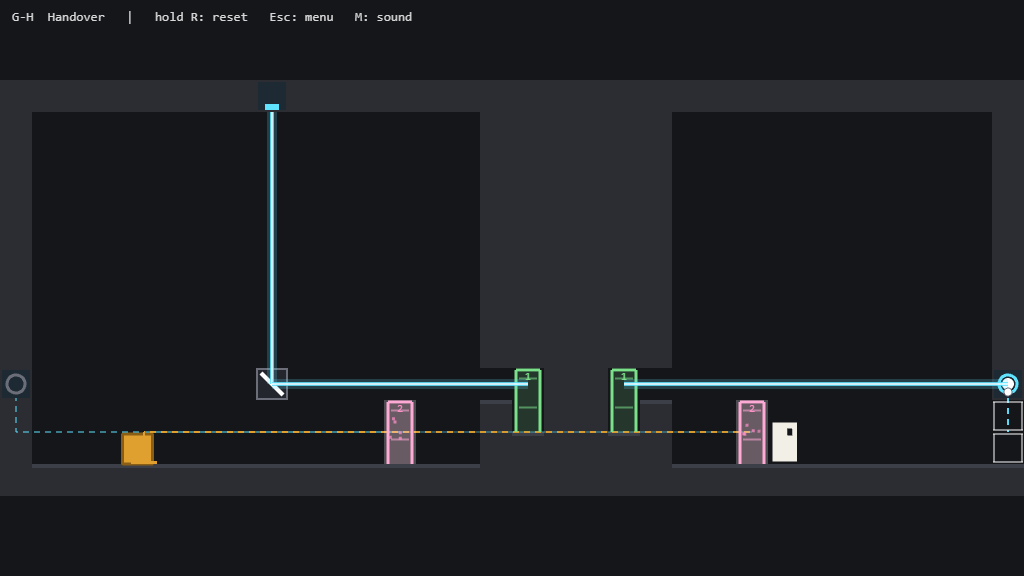
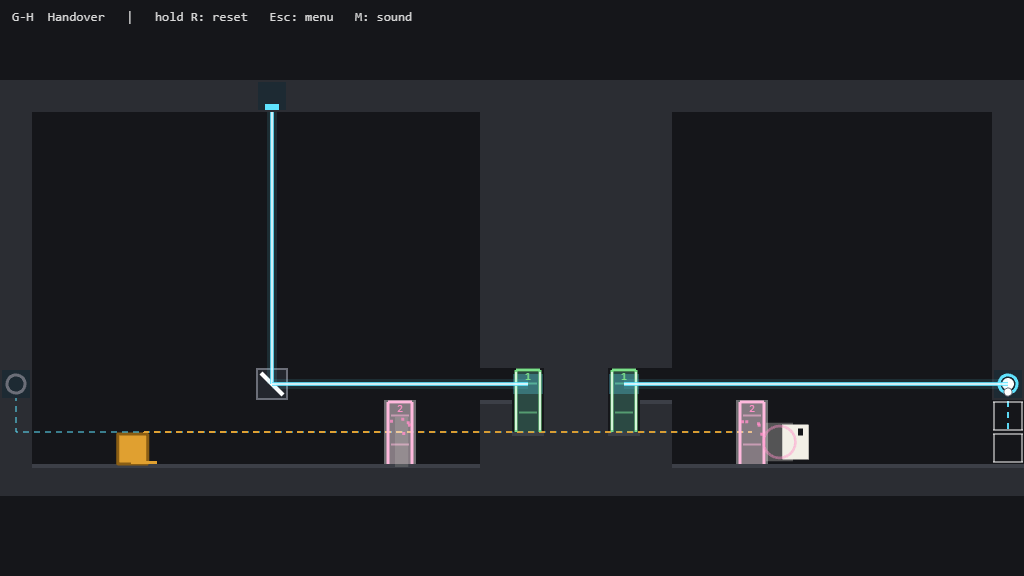
Gates polish: pass afterimages, ring and stretch; light glow; refused pass
- A gate pass leaves an afterimage at both ends and a ring in the pair's
  colour; the player stretches in the direction of travel (C52, C58).
- Gates carrying a beam glow cyan at both ends (tracer reports gate cells).
- Walking into a gate whose far side is blocked (G5) now says no: refuse
  sound, a small shake and a red outline on the blocked spot.
- New sound levels measured offline against the existing ones.
- Verified in G-E (pass, refused pass, other side) and G-H (glow, solve);
  screenshot refreshed; docs updated.

diff --git a/src/game/scenes/ChamberScene.ts b/src/game/scenes/ChamberScene.ts
@@ -39,7 +39,7 @@ import { Crate } from '../player/Crate';
 import { Player } from '../player/Player';
 import { ChamberView } from '../render/ChamberView';
 import { centredBounds } from '../render/camera';
-import { dust, sparks } from '../render/fx';
+import { afterimage, dust, ring, sparks } from '../render/fx';
 import { cssHex, gateColor, PALETTE } from '../render/palette';
 
 const RESET_HOLD_MS = 1000; // hold R this long to reset (C51)
@@ -88,7 +88,7 @@ export class ChamberScene extends Phaser.Scene {
   private enemies: PatrolEnemy[] = [];
   private cellBodies: { r: number; c: number; body: Phaser.Physics.Arcade.StaticBody }[] = [];
   private pressed: ReadonlySet<string> = new Set();
-  private beams: BeamTrace = { segments: [], lit: new Set(), cells: new Set() };
+  private beams: BeamTrace = { segments: [], lit: new Set(), cells: new Set(), gateCells: new Set() };
   private gates!: GateMap;
   /** Each body's centre x on the previous physics step, to see it cross a gate's centre line (C106). */
   private prevCentre = new Map<Phaser.Physics.Arcade.Body, number>();
@@ -139,7 +139,7 @@ export class ChamberScene extends Phaser.Scene {
     this.enemies = [];
     this.cellBodies = [];
     this.pressed = new Set();
-    this.beams = { segments: [], lit: new Set(), cells: new Set() };
+    this.beams = { segments: [], lit: new Set(), cells: new Set(), gateCells: new Set() };
     this.resetHeldMs = 0;
     this.solved = false;
     this.defeated = false;
@@ -718,35 +718,52 @@ export class ChamberScene extends Phaser.Scene {
     }
     const isSolid = (r: number, c: number) => this.logic.isSolid(r, c) || crateCells.has(key(r, c));
     const isOn = (id: string) => this.logic.isGateOn(id);
-    const bodies: Phaser.Physics.Arcade.Body[] = [this.player.body];
+    // Each body with the colour of its afterimage.
+    const bodies: { body: Phaser.Physics.Arcade.Body; color: number }[] = [{ body: this.player.body, color: PALETTE.player }];
     for (const c of this.crates) {
-      if (!c.carried && !c.flying && c.body.enable) bodies.push(c.body);
+      if (!c.carried && !c.flying && c.body.enable) bodies.push({ body: c.body, color: PALETTE.weight });
       else this.prevCentre.delete(c.body); // carried or flying: its old spot means nothing on landing
     }
     for (const w of this.enemies) {
-      if (w.alive) bodies.push(w.body);
+      if (w.alive) bodies.push({ body: w.body, color: PALETTE.enemy });
       else this.prevCentre.delete(w.body);
     }
-    for (const body of bodies) {
+    for (const { body, color } of bodies) {
       const cx = body.x + body.width / 2;
       const last = this.prevCentre.get(body);
       // A jump of more than half a tile in one step is a placement (put down, respawn, reset),
       // never a walk across a gate's centre line.
       const prev = last === undefined || Math.abs(cx - last) > TILE / 2 ? cx : last;
       const pass = passThrough(this.gates.pairs, { left: body.x, top: body.y, width: body.width, height: body.height }, prev, TILE, isOn, isSolid);
-      if (!pass) {
+      if (!pass || pass.blocked) {
         this.prevCentre.set(body, cx);
+        // The player walked into a gate whose far side is blocked (G5): say no, as the game does
+        // everywhere else (C52), and mark what blocks it. Other bodies just pass the empty frame.
+        if (pass?.blocked && body === this.player.body) {
+          Sfx.refuse();
+          this.cameras.main.shake(60, 0.002);
+          this.view.flashCells(pass.to.map(([r, c]) => [r, c + pass.dir] as const), 0xff6b6b);
+        }
         continue;
       }
       const { x: vx, y: vy } = body.velocity;
+      const from = { x: body.x + body.width / 2, y: body.y + body.height / 2 };
       body.reset(pass.left + body.width / 2, pass.top + body.height / 2);
       body.velocity.set(vx, vy);
       this.prevCentre.set(body, pass.left + body.width / 2);
+      // Juice (C52, C58): an afterimage shrinking into the gate it entered, one popping out of the
+      // twin, a ring in the pair's colour, sparks at both gates, a flash, the pass sound and, for
+      // the player, a stretch in the direction of travel.
+      const pairColor = gateColor(pass.pair);
+      afterimage(this, from.x, from.y, body.width, body.height, color, 'from');
+      afterimage(this, pass.left + body.width / 2, pass.top + body.height / 2, body.width, body.height, color, 'to');
+      ring(this, pass.left + body.width / 2, pass.top + body.height / 2, pairColor);
+      if (body === this.player.body) this.player.popOut();
       Sfx.gate();
       this.view.flash(pass.pair);
       for (const gate of [pass.from, pass.to]) {
         const [r, c] = gate[0]!;
-        sparks(this, (c + 0.5) * TILE, (r + 1) * TILE, gateColor(pass.pair), 5);
+        sparks(this, (c + 0.5) * TILE, (r + 1) * TILE, pairColor, 5);
       }
     }
   }

diff --git a/src/game/render/ChamberView.ts b/src/game/render/ChamberView.ts
@@ -27,6 +27,8 @@ export class ChamberView {
   private readonly dynamic: Phaser.GameObjects.Graphics;
   /** Device id -> time (ms) its hit flash started. */
   private readonly flashes = new Map<string, number>();
+  /** Cells flashed in a colour (a refused gate pass marks what blocks it). */
+  private cellFlashes: { cells: readonly (readonly [number, number])[]; color: number; t0: number }[] = [];
 
   constructor(
     private readonly scene: Phaser.Scene,
@@ -72,6 +74,11 @@ export class ChamberView {
     this.flashes.set(deviceId, this.scene.time.now);
   }
 
+  /** Briefly tint some cells (what blocks a gate's exit, C106). */
+  flashCells(cells: readonly (readonly [number, number])[], color: number): void {
+    this.cellFlashes.push({ cells, color, t0: this.scene.time.now });
+  }
+
   /** A small burst (a recalled crate vanishing, a Bolt hitting a wall). */
   puff(x: number, y: number, color: number = PALETTE.weight): void {
     for (let i = 0; i < 8; i++) {
@@ -99,6 +106,13 @@ export class ChamberView {
       }
       g.fillStyle(PALETTE.lightCore, 0.7 * (1 - t));
       for (const [r, c] of d.cells) g.fillRect(c * TILE, r * TILE, TILE, TILE);
+    }
+    const CELL_MS = 320;
+    this.cellFlashes = this.cellFlashes.filter((f) => this.scene.time.now - f.t0 < CELL_MS);
+    for (const f of this.cellFlashes) {
+      const t = (this.scene.time.now - f.t0) / CELL_MS;
+      g.lineStyle(3, f.color, 0.9 * (1 - t));
+      for (const [r, c] of f.cells) g.strokeRect(c * TILE + 3, r * TILE + 3, TILE - 6, TILE - 6);
     }
   }
 
@@ -236,8 +250,20 @@ export class ChamberView {
               g.lineStyle(2, color, 0.55).lineBetween(x + 7, sy, x + TILE - 7, sy);
             }
           }
+          // Light passing through (C106): the whole frame washes cyan, brightest on the beam's row,
+          // and its posts turn cyan, at both gates of the pair.
+          const lightRows = gate.filter(([r]) => beams?.gateCells.has(`${r},${c}`)).map(([r]) => r);
+          if (lightRows.length > 0) {
+            const pulse = 0.75 + 0.25 * Math.sin(this.scene.time.now / 90);
+            g.fillStyle(PALETTE.light, 0.22 * pulse).fillRect(x + 5, y + 4, TILE - 10, h - 4);
+            for (const r of lightRows) g.fillStyle(PALETTE.light, 0.55 * pulse).fillRect(x + 1, r * TILE + 6, TILE - 2, TILE - 12);
+          }
           g.lineStyle(3, color, on ? 1 : 0.35);
           g.lineBetween(x + 4, y + h, x + 4, y + 2).lineBetween(x + 4, y + 2, x + TILE - 4, y + 2).lineBetween(x + TILE - 4, y + 2, x + TILE - 4, y + h);
+          if (lightRows.length > 0) {
+            g.lineStyle(1.5, PALETTE.lightCore, 0.9);
+            g.lineBetween(x + 4, y + h - 2, x + 4, y + 4).lineBetween(x + TILE - 4, y + 4, x + TILE - 4, y + h - 2);
+          }
         }
         break;
       }

diff --git a/tests/core/gates.test.ts b/tests/core/gates.test.ts
@@ -107,6 +107,7 @@ describe('beams through gates', () => {
   it('a sideways beam leaves the twin the same way and lights what is beyond', () => {
     const t = trace(LIGHT);
     expect(t.lit.has('receiver@1,13')).toBe(true);
+    expect([...t.gateCells].sort()).toEqual(['1,10', '1,3']);
     expect(t.segments.map((s) => [s.from, s.to])).toEqual([
       [[1, 1], [1, 3]],
       [[1, 10], [1, 13]],
@@ -123,6 +124,7 @@ describe('beams through gates', () => {
   it('vertical beams pass gates as air', () => {
     const t = trace(['#######', '#.v...#', 'D.1.1.E', 'S.1.1.E', '#.o####', '#######']);
     expect(t.lit.has('receiver@4,2')).toBe(true);
+    expect(t.gateCells.size).toBe(0);
   });
 
   it('a blocker beside the twin stops the beam there', () => {
@@ -144,7 +146,7 @@ describe('bodies through gates', () => {
   it('crossing the centre line moving right comes out beside the twin, on its right, at the same height', () => {
     const line = 3 * T + 16;
     const pass = passThrough(pairs, body(line + 2), line - 2, T, () => true, solid)!;
-    expect(pass).toMatchObject({ pair: '1', dir: 1, from: [[2, 3], [3, 3]], to: [[2, 10], [3, 10]] });
+    expect(pass).toMatchObject({ pair: '1', dir: 1, blocked: false, from: [[2, 3], [3, 3]], to: [[2, 10], [3, 10]] });
     expect(pass.left).toBeCloseTo(11 * T + 0.5);
     expect(pass.top).toBe(4 * T - 44);
   });
@@ -163,11 +165,13 @@ describe('bodies through gates', () => {
     expect(passThrough(pairs, { ...body(line + 2), top: 0 }, line - 2, T, () => true, solid)).toBeUndefined();
   });
 
-  it('a gate whose twin is blocked on the exit side carries nobody', () => {
+  it('a gate whose twin is blocked on the exit side carries nobody, and says so', () => {
     const blocked = parse(['###############', '#.....#.......#', 'D..1..#...1#..E', 'DS.1.a#...1...E', '###############']);
     const l = new ChamberLogic(blocked);
     const line = 3 * T + 16;
-    expect(passThrough(new GateMap(blocked).pairs, body(line + 2), line - 2, T, () => true, (r, c) => l.isSolid(r, c))).toBeUndefined();
+    const b = body(line + 2);
+    const pass = passThrough(new GateMap(blocked).pairs, b, line - 2, T, () => true, (r, c) => l.isSolid(r, c))!;
+    expect(pass).toMatchObject({ blocked: true, dir: 1, left: b.left, top: b.top });
   });
 });
 

diff --git a/src/core/gates/gates.ts b/src/core/gates/gates.ts
@@ -62,7 +62,12 @@ export interface GatePass {
   from: readonly Cell[];
   to: readonly Cell[];
   dir: 1 | -1;
-  /** The body's new top-left corner. */
+  /**
+   * The twin's exit side was blocked (G5): the body stays where it is and the gate acts as an
+   * empty frame. The game uses this to say "no" (C52).
+   */
+  blocked: boolean;
+  /** The body's new top-left corner (unchanged when blocked). */
   left: number;
   top: number;
 }
@@ -75,7 +80,8 @@ export function exitClear(gate: readonly Cell[], dir: 1 | -1, isSolid: (r: numbe
 /**
  * One step of a body through the gates. `prevCentreX` is the body's centre on the previous step.
  * Returns where the body comes out if its centre crossed the centre line of a gate that is on,
- * while its vertical centre was within the gate's rows and the twin's exit side is clear.
+ * while its vertical centre was within the gate's rows. If the twin's exit side is blocked, the
+ * result says so (`blocked`) and keeps the body where it is.
  */
 export function passThrough(
   pairs: readonly Device[],
@@ -98,10 +104,10 @@ export function passThrough(
       const crossed = dir === 1 ? prevCentreX < line && cx >= line : prevCentreX > line && cx <= line;
       if (!crossed || cy < top * tile || cy >= (top + from.length) * tile) continue;
       const to = pair.gates![1 - g]!;
-      if (!exitClear(to, dir, isSolid)) continue;
+      if (!exitClear(to, dir, isSolid)) return { pair: pair.id, from, to, dir, blocked: true, left: body.left, top: body.top };
       const [toTop, toCol] = to[0]!;
       const left = dir === 1 ? (toCol + 1) * tile + 0.5 : toCol * tile - body.width - 0.5;
-      return { pair: pair.id, from, to, dir, left, top: body.top + (toTop - top) * tile };
+      return { pair: pair.id, from, to, dir, blocked: false, left, top: body.top + (toTop - top) * tile };
     }
   }
   return undefined;

diff --git a/src/core/light/beams.ts b/src/core/light/beams.ts
@@ -47,6 +47,8 @@ export interface BeamTrace {
   lit: Set<string>;
   /** "r,c" of every cell a beam passes through (for knockback and, on Day 4, enemy damage). */
   cells: Set<string>;
+  /** "r,c" of gate cells a beam enters or leaves sideways (C106), so the frames can glow. */
+  gateCells: Set<string>;
 }
 
 const STEP: Record<Dir, readonly [number, number]> = { up: [-1, 0], down: [1, 0], left: [0, -1], right: [0, 1] };
@@ -68,6 +70,7 @@ export function traceBeams(model: ChamberModel, world: BeamWorld): BeamTrace {
   const segments: BeamSegment[] = [];
   const lit = new Set<string>();
   const cells = new Set<string>();
+  const gateCells = new Set<string>();
 
   for (const emitter of model.devices) {
     if (emitter.kind !== 'emitter' || !emitter.dir) continue;
@@ -114,10 +117,12 @@ export function traceBeams(model: ChamberModel, world: BeamWorld): BeamTrace {
         start ??= [r, c];
         last = [r, c];
         cells.add(key);
+        gateCells.add(key);
         close();
         [r, c] = gates.twinOf(r, c)!;
         start = last = [r, c];
         cells.add(`${r},${c}`);
+        gateCells.add(`${r},${c}`);
         fromEdge = false;
         toEdge = false;
         continue;
@@ -136,7 +141,7 @@ export function traceBeams(model: ChamberModel, world: BeamWorld): BeamTrace {
     }
     close();
   }
-  return { segments, lit, cells };
+  return { segments, lit, cells, gateCells };
 }
 
 /** A segment as a line in world pixels (cell size `tile`), for drawing and for contact tests. */

diff --git a/src/game/render/fx.ts b/src/game/render/fx.ts
@@ -39,3 +39,39 @@ export function sparks(scene: Phaser.Scene, x: number, y: number, color: number,
     });
   }
 }
+
+/**
+ * A fading copy of a body's box: shrinks where something left (`from`), or pops out from a
+ * little larger where it arrived (`to`). Used for gate passes (C106), so a jump across the room
+ * reads as one movement instead of a glitch. A separate shape, so physics bodies are never scaled.
+ */
+export function afterimage(scene: Phaser.Scene, x: number, y: number, w: number, h: number, color: number, kind: 'from' | 'to'): void {
+  const ghost = scene.add.rectangle(x, y, w, h, color, kind === 'from' ? 0.45 : 0.6).setDepth(11);
+  if (kind === 'to') ghost.setScale(1.45, 0.75);
+  scene.tweens.add({
+    targets: ghost,
+    scaleX: kind === 'from' ? 0.4 : 1,
+    scaleY: kind === 'from' ? 1.2 : 1,
+    alpha: 0,
+    duration: kind === 'from' ? 160 : 220,
+    ease: 'Quad.Out',
+    onComplete: () => ghost.destroy(),
+  });
+}
+
+/** An expanding ring (a gate pass arriving). */
+export function ring(scene: Phaser.Scene, x: number, y: number, color: number, radius = 22): void {
+  const g = scene.add.graphics().setDepth(11);
+  const state = { t: 0 };
+  scene.tweens.add({
+    targets: state,
+    t: 1,
+    duration: 260,
+    ease: 'Quad.Out',
+    onUpdate: () => {
+      g.clear();
+      g.lineStyle(3 * (1 - state.t) + 1, color, 0.8 * (1 - state.t)).strokeCircle(x, y, 6 + radius * state.t);
+    },
+    onComplete: () => g.destroy(),
+  });
+}

diff --git a/src/game/player/Player.ts b/src/game/player/Player.ts
@@ -334,6 +334,11 @@ export class Player {
     dust(this.scene, x, feet, 4, 10, TILE / 2 - 2);
   }
 
+  /** Coming out of a gate (C106): a quick stretch in the direction of travel. */
+  popOut(): void {
+    this.squash(1.35, 0.78);
+  }
+
   private squash(sx: number, sy: number): void {
     this.scene.tweens.killTweensOf(this.sprite);
     this.sprite.setScale(sx, sy);

diff --git a/docs/tasks.md b/docs/tasks.md
@@ -122,6 +122,7 @@ How to use this file:
 - [x] G-E, G-M, G-H entered as data and **solved end to end in the real game** (scripted input; G-M's walker delivered about 1 s after `c`); enumerator intended states (report reviewed: G-M's extra openings need `x` pressed, which needs gate 1, which needs the walker on `a`; G-H's need Ma `\`, and the room is reachable then only with the crate on `p`), routes and the up-swing to Ma as regression tests; screenshot `docs/screenshots/day7-G-H-beam-through-gate-crate-holds-gate-2.png`
 - [x] Progression: seals W-H 1, L-H 2, G-H 3, Eclipse 4 (still final), Eclipse needs G-H, 4 × 3 chamber select, four seals in the menu and the run summary, generator and progression tests (five winning runs cover all twelve)
 - [x] Docs: GDD (four mechanics, still about 3¼ A4 pages, checked by printing), README, ASSETS, implementation plan, devlog, decision log, enumerator report
+- [x] Gates polish to the polish-pass bar: pass afterimages + ring + player stretch; gates glow while carrying light; refused pass (far side blocked) answers with the refuse sound, a shake and a red outline; new sound levels measured against the existing ones (offline render). Verified in G-E (pass frame, refused pass, other side still works) and G-H (glow, full solve)
 
 ## Day 7: Polish and delivery
 - [x] Polish pass (feel, SFX, juice): every state change answers (C52): plates click, receivers chime, doors / trapdoors / the exit sound and spark, plate-wired mirrors turn audibly, crates thud with dust; movement (C58): jump and landing sounds, landing dust scaled by the fall; pick-up / put-down / throw sounds and a "refused" sound where the game says no; reward pick chord; **M** mutes (remembered). A quiet ~1/3 s at room start. Found and fixed: a quick pick-up + put-down in place was refused (AI bug #33). Verified in W-E, L-H and W-H by logging every sound by name

diff --git a/docs/devlog.md b/docs/devlog.md
@@ -160,7 +160,12 @@ Testing note (not a product bug): synthetic `KeyboardEvent`s ignore the `keyCode
   - Then came the game layer and data entry; each chamber was then solved end to end in the real game.
   - The three chambers: **First Gate** (fetch a crate through a gate), **Gatekeeper** (open a gate for the walker; it drops onto the plate that holds your gate open), **Handover** (Gates × Light: one beam powers your gate or the exit, so a crate takes over).
 - **Progression:** Eclipse now also needs the Gates Hard; the chamber select is 4 × 3; five winning runs cover all twelve chambers. The GDD still fits about 3¼ A4 pages.
-- Screenshot: [`day7-G-H-beam-through-gate-crate-holds-gate-2.png`](screenshots/day7-G-H-beam-through-gate-crate-holds-gate-2.png).
+- **Gates polish, to the bar of the Day 7 polish pass (C52, C58):**
+  - A pass leaves an afterimage shrinking into the gate it entered and another popping out of the twin, plus a ring in the pair's colour. The player stretches in the direction of travel, so a jump across the room reads as one movement.
+  - A gate carrying light washes cyan, brightest on the beam's row, with cyan posts, at both gates of the pair.
+  - Walking into a gate whose far side is blocked now says no (refuse sound, a small shake, a red outline on the blocked spot). It used to be silent.
+  - The new sounds were rendered offline and measured over their loudest 100 ms. The pass (−37 dB) sits between the receiver and door sounds (−38) and the phase swap (−35); gate on (−41) and off (−45) match the existing on/off pairs.
+- Screenshot: [`day7-G-H-beam-through-gate-crate-holds-gate-2.png`](screenshots/day7-G-H-beam-through-gate-crate-holds-gate-2.png): the beam lights gate 1 while a pass through gate 2 pops.
 
 ### AI bug log (Day 7)
 | # | What the AI got wrong | How it was found | Fix |

diff --git a/docs/design-decision-log.md b/docs/design-decision-log.md
@@ -1093,4 +1093,9 @@ HTML5 with a suitable JS/TS framework; simple vector/geometric art or free/AI-ge
   - Passing through plays its own sound with sparks at both gates in the pair's colour; wired pairs turning on or off play their own two-note sounds.
   - Pair colours: green, pink, pale yellow, light blue, always with the digit.
   - The 4 × 3 chamber select keeps every row on one screen by tightening the row spacing.
+- 2026-11-20 (Day 7, Gates polish): C52/C58 applied to gates. Implementation defaults, open to the user's objection:
+  - A pass shows an afterimage at both ends, a ring in the pair's colour and, for the player, a stretch. These are separate shapes, so no physics body is ever scaled.
+  - A gate carrying light glows cyan.
+  - A pass refused because the far side is blocked (G5) answers only the player: refuse sound, small shake, red outline on the blocked spot. Crates and enemies just pass the empty frame.
+  - A crate parked beside a gate blocks only that exit side. Every gate in the three chambers can be entered from both sides, so this never traps the player.
 - 2026-11-17 (Day 5): Docs refreshed and an automated docs check added (`tests/docs.test.ts`, C86). Historical sections that still said "awaiting user" now point to the confirmed decisions; a reading note at the top explains how proposals, decisions and revisions relate.

diff --git a/docs/gates-chambers-draft.md b/docs/gates-chambers-draft.md
@@ -139,7 +139,10 @@ DS..p.......2..######..2...C...E
 - The exit opens only with Ma at `\` (the enumerator lists both plate states). Being inside with the exit open requires the crate on `p`.
 
 ## Built (2026-11-20)
-- **Game layer:** gates drawn with a pair colour and digit, a rising shimmer while on and a dim outline while off. Bodies and beams pass through them, and a pass plays a sound with sparks at both gates.
+- **Game layer:** gates drawn with a pair colour and digit, a rising shimmer while on and a dim outline while off. Bodies and beams pass through them.
+  - A pass plays a sound, with sparks at both gates, afterimages at both ends, a ring and a stretch on the player.
+  - Gates carrying light glow cyan.
+  - A refused pass answers with the refuse sound and marks what blocks it.
 - **Data and regression tests:** routes and the up-swing to Ma are pinned in `tests/core/reach.test.ts`, and the intended states are in the enumerator test.
 - **Progression:** seal 4, and Eclipse needs G-H. Chamber select is now 4 × 3; about five winning runs cover all twelve chambers.
 - **Solved end to end in the real game** with scripted input:
